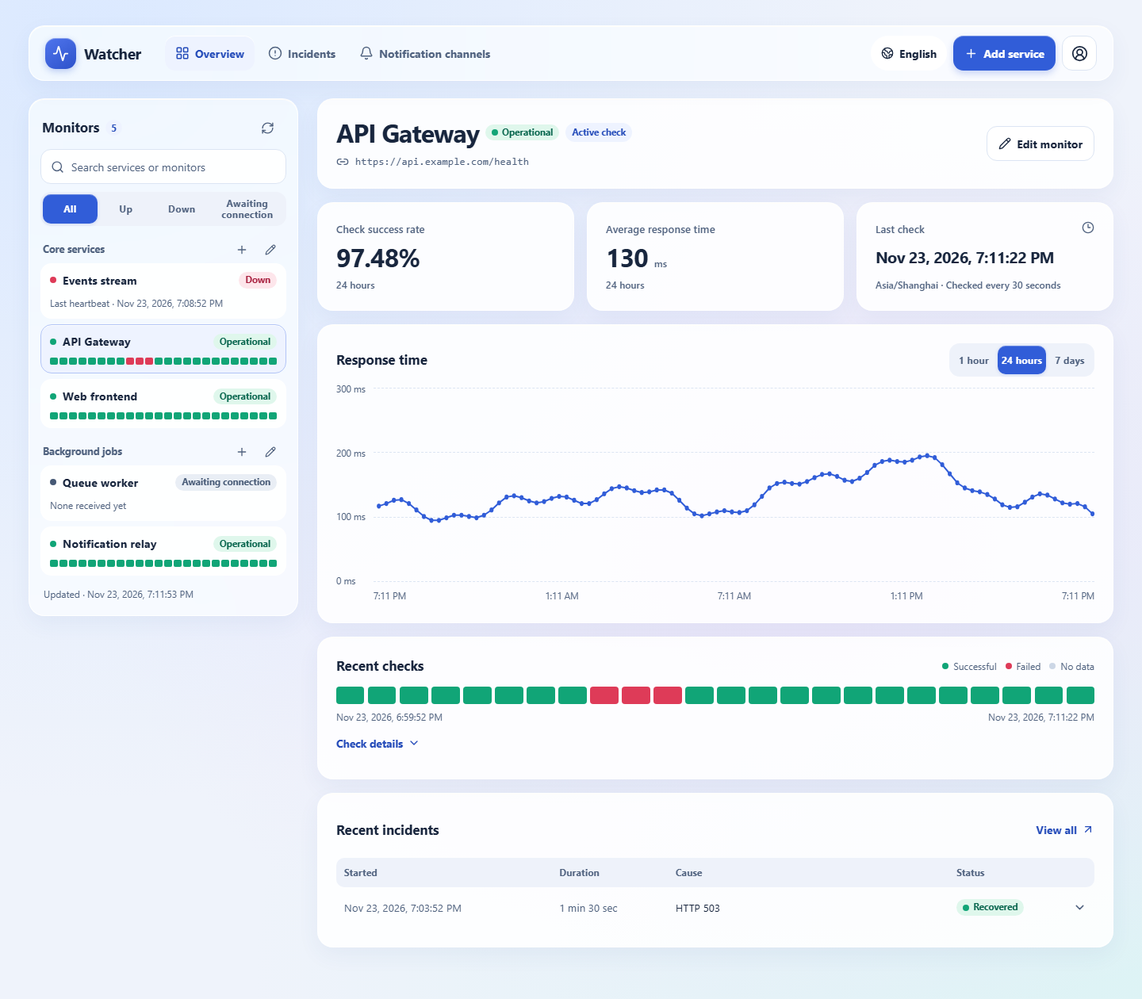
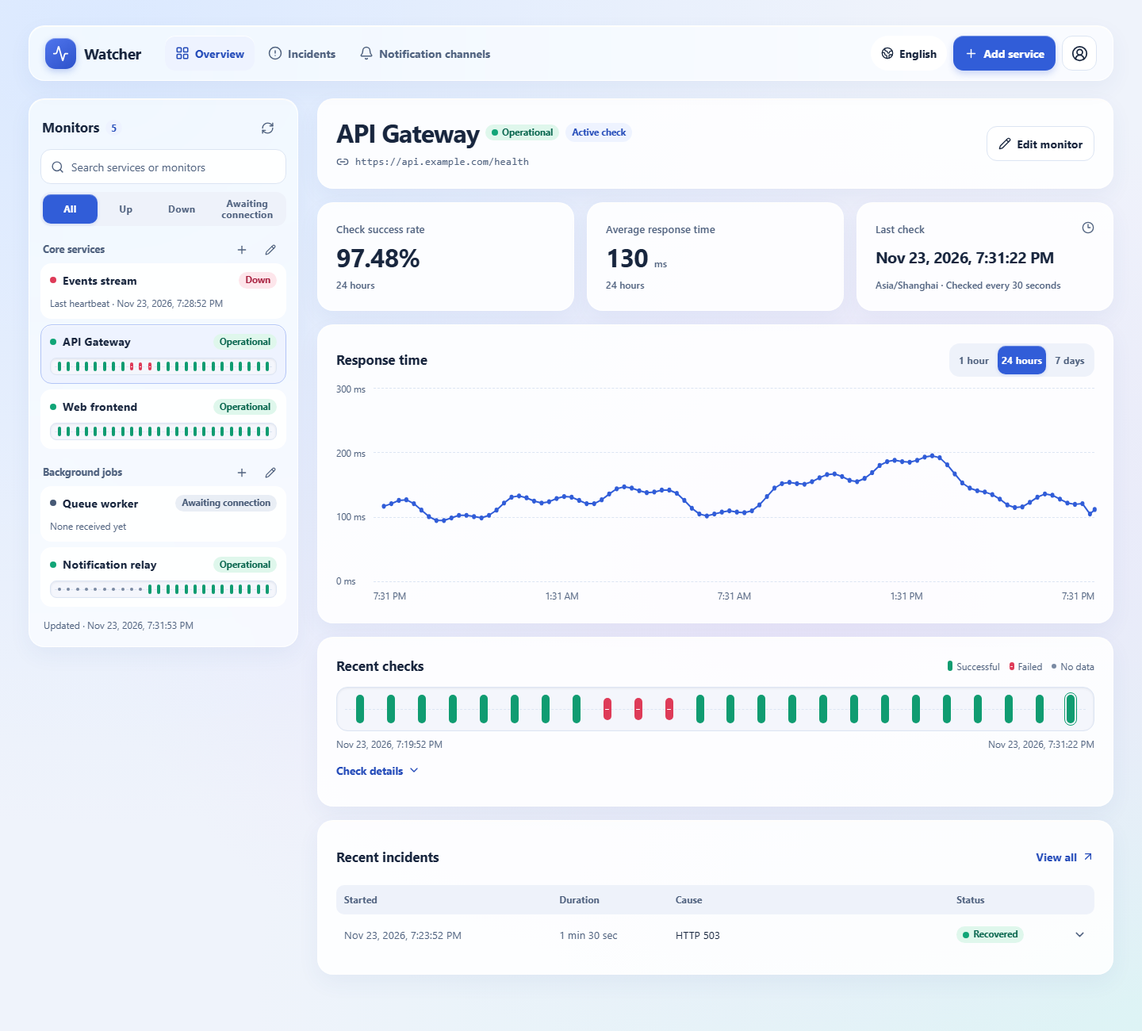
docs(readme): improve bilingual layout and refresh screenshots

diff --git a/README.md b/README.md
@@ -2,73 +2,121 @@
 
 English · [简体中文](README.zh-CN.md)
 
-Watcher monitors HTTP endpoints and application heartbeats, then sends alerts when a service fails and recovers. The dashboard uses Next.js, Tailwind CSS, and PostgreSQL and is available in English and Simplified Chinese. Anyone who signs in with GitHub can view monitoring data. Set `ADMIN_GITHUB_IDS` to grant configuration access to specific GitHub users.
+Watcher monitors HTTP endpoints and application heartbeats, records incidents, and alerts you when a service fails or recovers. The responsive dashboard runs on Next.js, Tailwind CSS, and PostgreSQL.
 
-## Dashboard preview
+[Dashboard](#dashboard) · [Quick start](#quick-start) · [Deploy to Vercel](#deploy-to-vercel) · [Passive monitoring](#passive-monitoring)
 
-The desktop view puts the monitor list beside the selected monitor. The API Gateway example shows 24 hours of response times, recent check results, and a recovered incident.
+## Dashboard
 
-![Watcher desktop dashboard showing the monitor list, API Gateway latency chart, and incident history](docs/screenshots/desktop-en.png)
+![Watcher desktop dashboard with a monitor list, response-time chart, recent check history, and a recovered incident](docs/screenshots/desktop-en.png)
 
-On mobile, the overview brings active failures and monitor states into a single list. Tap a monitor to open its details, or use the bottom navigation to switch between the overview, incidents, and notifications.
+The monitor list stays beside the selected monitor on desktop. The recent-check strip shows successful checks as green capsules, failures as rose capsules with a short dash, and missing records as gray dots. A new result receives a brief outline pulse. The outline stays static when the system requests reduced motion.
 
-<img src="docs/screenshots/mobile-en.png" alt="Watcher mobile dashboard showing the failure summary, status filters, and bottom navigation" width="300">
+<details>
+<summary>Mobile dashboard</summary>
 
-These screenshots show the running dashboard with sample monitoring data.
+The mobile overview puts active failures at the top. Tap a monitor for its details, or switch between the overview, incidents, and notifications from the bottom bar.
 
-## Features
+<img src="docs/screenshots/mobile-en.png" alt="Watcher mobile dashboard with an active incident summary, monitor filters, and bottom navigation" width="300">
 
-- **Active HTTP(S) checks** run every 30 seconds against public endpoints and support configurable expected HTTP status codes. Two consecutive failures open an incident. The next successful check closes it.
-- **Passive WebSocket monitoring** accepts application heartbeats and explicit health reports. Once the first valid report arrives, a 15-second gap in heartbeats triggers a failure.
-- **Monitoring dashboard** groups monitors by service and provides search, status filters, recent checks, and incidents. HTTP monitors show response times and check success rates for 1 hour, 24 hours, or 7 days. Check records are retained for 7 days.
-- **Alert delivery** sends incident and recovery notifications through Bark, webhooks, or email and records delivery results and retries for each channel.
+</details>
 
-## Run locally
+*Screenshots show the running app with sample monitoring data.*
 
-You need Node.js 22.18 or later and PostgreSQL 14 or later.
+## Monitoring
 
-1. Clone this repository, run `npm ci`, and copy [`.env.example`](.env.example) to `.env.local`.
-2. Create a GitHub OAuth app. Set its homepage to `http://localhost:3000` and its callback to `http://localhost:3000/api/auth/callback/github`. Set `AUTH_GITHUB_ID` to the client ID and `AUTH_GITHUB_SECRET` to the client secret. [GitHub OAuth app setup](https://docs.github.com/en/apps/oauth-apps/building-oauth-apps/creating-an-oauth-app)
-3. Generate independent values for `AUTH_SECRET` and `CHANNEL_SECRET_KEY`. Run `node -e "console.log(require('node:crypto').randomBytes(32).toString('base64'))"` once per value. Set `ADMIN_GITHUB_IDS` to the administrators’ numeric GitHub user IDs, separated by commas.
-4. Set `DATABASE_URL` and run `npm run db:migrate` to apply the database schema.
-5. Run `npm run dev` and `npm run worker` in separate terminals. For local passive monitoring, run `npm run dev:ws` in a third terminal. Open the [local dashboard](http://localhost:3000).
+| Mode | How it works |
+| --- | --- |
+| Active HTTP(S) | Checks a public endpoint every 30 seconds against configurable HTTP status codes. Two consecutive failures open an incident. The next successful check closes it. |
+| Passive WebSocket | Accepts application heartbeats and explicit health reports. A 15-second gap triggers a failure once the first valid report has arrived. |
 
-Run `npm test` to use the embedded test database without a separate PostgreSQL instance. Run `npm run typecheck` for type checking and `npm run build` to verify the production build.
+HTTP monitor details include response times and check success rates for 1 hour, 24 hours, or 7 days. Watcher retains check records for 7 days. Each monitor can send failure and recovery alerts through multiple [notification channels](#notification-channels).
+
+## Quick start
+
+**Requirements:** Node.js 22.18 or later, PostgreSQL 14 or later, and a GitHub OAuth app.
+
+### Install
+
+```sh
+git clone https://github.com/lyxlucky/watcher.git
+cd watcher
+npm ci
+cp .env.example .env.local
+```
+
+### Configure
+
+Create a GitHub OAuth app with homepage `http://localhost:3000` and callback `http://localhost:3000/api/auth/callback/github`. Copy its client ID and secret into the local environment. [GitHub OAuth app setup](https://docs.github.com/en/apps/oauth-apps/building-oauth-apps/creating-an-oauth-app)
+
+| Variable | Local value |
+| --- | --- |
+| `AUTH_URL` | `http://localhost:3000` |
+| `AUTH_GITHUB_ID`, `AUTH_GITHUB_SECRET` | GitHub OAuth app client ID and client secret |
+| `AUTH_SECRET`, `CHANNEL_SECRET_KEY` | Two independently generated secrets |
+| `ADMIN_GITHUB_IDS` | Comma-separated numeric GitHub user IDs allowed to edit configuration |
+| `DATABASE_URL` | Connection URL for your PostgreSQL database |
+
+Generate a value for each secret with this command.
+
+```sh
+node -e "console.log(require('node:crypto').randomBytes(32).toString('base64'))"
+```
+
+Anyone who signs in with GitHub can view monitoring data. Only the accounts listed in `ADMIN_GITHUB_IDS` can change the configuration. See [the environment template](.env.example) for the optional SMTP settings.
+
+### Start
+
+Run `npm run db:migrate` once to apply the schema. Then start each process you need in a separate terminal.
+
+| Command | Purpose |
+| --- | --- |
+| `npm run dev` | Start the [dashboard](http://localhost:3000) |
+| `npm run worker` | Run checks, detect expired heartbeats, and deliver alerts |
+| `npm run dev:ws` | Accept passive monitor connections on port 3001 |
 
 ## Deploy to Vercel
 
-[`vercel.json`](vercel.json) deploys the Next.js app and the long-running monitoring worker to the same Vercel project. The default region is `iad1`. If your database is in another region, update both `regions` and the Daemon’s `instances` region. The Daemon runs in production deployments. [Vercel Daemons documentation](https://vercel.com/docs/daemons)
+[`vercel.json`](vercel.json) deploys the Next.js app and the worker to one Vercel project. Both default to `iad1`. If your database is elsewhere, update both `regions` and the Daemon’s `instances` region. The Daemon runs in production deployments. [Vercel Daemons documentation](https://vercel.com/docs/daemons)
 
-1. Create a Vercel project and choose a production domain. Set the production environment variables, point `AUTH_URL` to that HTTPS origin, and use `https://your-domain.example/api/auth/callback/github` as the GitHub OAuth callback. For passive monitoring, make sure Fluid compute is enabled. [Vercel WebSocket documentation](https://vercel.com/docs/functions/websockets)
-2. Run `npm run db:migrate` with the production database connection. Link the repository to the Vercel project and deploy via its Git integration or with `vercel --prod`. Verify that the worker started by checking for `Watcher 监控进程已启动` in the Vercel logs.
-3. Sign in as an administrator, create a notification channel and a service, and add an active or passive monitor. Use your own health endpoint and a test notification destination to check delivery on failure and recovery.
+1. Set the production environment variables. Point `AUTH_URL` to the HTTPS deployment origin and use `https://your-domain.example/api/auth/callback/github` as the OAuth callback. Enable Fluid compute for passive monitoring. [Vercel WebSocket documentation](https://vercel.com/docs/functions/websockets)
+2. Run `npm run db:migrate` with the production database connection, then deploy through Vercel’s Git integration or run `vercel --prod`. Check the logs for `Watcher 监控进程已启动`.
+3. Sign in as an administrator, create a service and a notification channel, and add a monitor. Verify failure and recovery alerts with a test destination.
 
-The Next.js app and the Daemon use the same database connection and `CHANNEL_SECRET_KEY`. Keep that key across deployments so existing channel destinations can still be decrypted. Configure `SMTP_*` for the Daemon to send email. Port `465` uses implicit TLS. The default port, `587`, uses STARTTLS.
+Use the same `DATABASE_URL` and `CHANNEL_SECRET_KEY` for the app and Daemon. Preserve the channel key across deployments so Watcher can still decrypt existing destinations.
 
-## Connect a passive monitor
+## Passive monitoring
 
-Connect to `wss://your-domain.example/api/heartbeat` in production or `ws://127.0.0.1:3001/api/heartbeat` locally. Save the token shown when you create the monitor. Send `Authorization: Bearer <token>` in the WebSocket handshake and send one JSON text frame every 5 seconds. Watcher returns `{"type":"ack"}` after persisting a report.
+Connect to `ws://127.0.0.1:3001/api/heartbeat` locally or `wss://your-domain.example/api/heartbeat` in production. Save the token shown when you create the monitor and send `Authorization: Bearer <token>` in the WebSocket handshake. Send one JSON text frame every 5 seconds. Watcher replies with `{"type":"ack"}` after recording it.
 
 | Frame | Effect |
 | --- | --- |
 | `{"type":"heartbeat"}` | Refreshes the last heartbeat time and can clear a heartbeat timeout. |
-| `{"type":"unhealthy"}` | Immediately reports an unhealthy state and opens an incident when the monitor enters that state. |
+| `{"type":"unhealthy"}` | Reports an unhealthy state and opens an incident when the monitor enters that state. |
 | `{"type":"healthy"}` | Reports a healthy state and clears an explicit failure. |
 
-Reconnect automatically after disconnects and report the current application state promptly. Watcher measures the 15-second timeout from receipt of the last valid report. The worker checks for expired heartbeats every 250 milliseconds. Database operations, deployments, and notification services can affect when an alert arrives. A monitor awaiting connection starts its timer with the first valid report.
+Reconnect after disconnects and report the application’s current state promptly. Watcher measures the timeout from receipt of the last valid report and checks for expired heartbeats every 250 milliseconds. Database operations, deployments, and notification services can affect alert timing.
 
 ## Notification channels
 
-- **Bark** expects the push URL containing the device key, for example `https://api.day.app/device-key`. [Bark documentation](https://bark.day.app/)
-- **Webhook** expects a public HTTP(S) URL. Watcher sends JSON with `id`, `incidentId`, `event`, `service`, `monitor`, `reason`, and `occurredAt`. The event is `down` or `recovery`. Receivers can deduplicate deliveries using the `Idempotency-Key` header.
-- **Email** expects a recipient email address. The worker sends through the SMTP server configured for the deployment.
+| Channel | Configuration |
+| --- | --- |
+| Bark | A push URL with the device key, such as `https://api.day.app/device-key`. [Bark documentation](https://bark.day.app/) |
+| Webhook | A public HTTP(S) endpoint. Use the `Idempotency-Key` header to deduplicate deliveries. |
+| Email | A recipient address and the worker’s `SMTP_*` settings. Port 465 uses implicit TLS. The default port, 587, uses STARTTLS. |
 
-A monitor can use multiple channels. Each channel gets up to three delivery attempts, with retries after approximately 15 and 30 seconds. A retry can produce a duplicate if the external delivery succeeded but Watcher could not record it.
+Webhook events are `down` or `recovery`. The JSON body includes `id`, `incidentId`, `event`, `service`, `monitor`, `reason`, and `occurredAt`.
 
-## Project structure
+Each channel gets up to three delivery attempts, with retries after approximately 15 and 30 seconds. A retry can produce a duplicate when the destination accepted the notification but Watcher could not record it.
 
-- [`app/`](app/) contains the dashboard, localization, authentication entry points, and API routes.
-- [`worker/`](worker/) contains the database schema, probe scheduling, heartbeat processing, and alert delivery.
-- [`tests/`](tests/) contains tests for monitoring, alert delivery, and check history.
+## Development
 
-[Monitoring rules in Simplified Chinese](docs/monitoring.md) · [Vercel scheduling decision in Simplified Chinese](docs/adr/0001-vercel-daemon-for-scheduling.md)
+| Command | Purpose |
+| --- | --- |
+| `npm test` | Run monitoring and delivery tests using an embedded database |
+| `npm run typecheck` | Run TypeScript checks |
+| `npm run build` | Verify the production build |
+
+The dashboard and API routes are in [`app/`](app/). The worker, database schema, and alert delivery code are in [`worker/`](worker/). Tests are in [`tests/`](tests/).
+
+[Monitoring rules (Chinese)](docs/monitoring.md) · [Vercel scheduling decision (Chinese)](docs/adr/0001-vercel-daemon-for-scheduling.md)

diff --git a/README.zh-CN.md b/README.zh-CN.md
@@ -1,74 +1,122 @@
 # Watcher
 
-简体中文 · [English](README.md)
+[English](README.md) · 简体中文
 
-Watcher 监控 HTTP 接口和应用心跳，在服务故障及恢复时发送通知。控制台基于 Next.js、Tailwind CSS 和 PostgreSQL，支持简体中文和英文。任意 GitHub 用户登录后可查看监控数据。通过 `ADMIN_GITHUB_IDS` 指定可修改配置的 GitHub 用户。
+Watcher 监控 HTTP 接口和应用心跳，记录故障，并在服务故障或恢复时发送通知。响应式控制台基于 Next.js、Tailwind CSS 和 PostgreSQL。
+
+[界面预览](#界面预览) · [快速开始](#快速开始) · [部署到 Vercel](#部署到-vercel) · [被动接入](#被动接入)
 
 ## 界面预览
 
-桌面端并排显示监控目录和所选监控项的详情。截图中的 API 网关展示了近 24 小时响应时间、近期探测结果和一条已恢复的故障。
+![Watcher 中文桌面控制台，展示监控列表、响应时间图、近期探测与已恢复的故障](docs/screenshots/desktop-zh.png)
 
-![Watcher 中文桌面控制台，左侧为监控列表，右侧为 API 网关的延迟图表和故障记录](docs/screenshots/desktop-zh.png)
+桌面端将监控列表和选中项的详情并排显示。近期探测条用绿色胶囊表示成功，带短横的玫红胶囊表示失败，灰点表示暂无记录。新结果会带来一次短暂的光晕，系统开启「减少动态效果」后显示静态描边。
 
-手机端的监控总览集中展示当前异常和各监控项状态。点按监控项可进入详情，底部导航可切换总览、故障记录和通知渠道。
+<details>
+<summary>手机端控制台</summary>
 
-<img src="docs/screenshots/mobile-zh.png" alt="Watcher 中文手机控制台，展示异常摘要、状态筛选和底部导航" width="300">
+手机端总览会将当前异常放在顶部。点按监控项可查看详情，底部导航可切换总览、故障记录和通知渠道。
 
-截图来自运行中的控制台，使用示例监控数据。
+<img src="docs/screenshots/mobile-zh.png" alt="Watcher 中文手机控制台，展示异常摘要、监控筛选和底部导航" width="300">
 
-## 功能
+</details>
 
-- **主动 HTTP(S) 探测**每 30 秒检查一次公网地址，支持自定义预期 HTTP 状态码。连续两次失败时创建故障，下一次成功时关闭故障。
-- **被动 WebSocket 监控**接受应用心跳与显式健康状态上报。首次有效上报后开始计时，15 秒未收到心跳时判定异常。
-- **监控总览**按服务分组搜索、筛选监控项，查看最近探测和故障。主动探测支持 1 小时、24 小时和 7 天的响应时间图与探测成功率。探测明细保留 7 天。
-- **告警投递**在故障和恢复时通过 Bark、Webhook 或邮件通知，记录各渠道的投递与重试结果。
+*截图来自运行中的控制台，使用示例监控数据。*
 
-## 本地运行
+## 监控方式
 
-需要 Node.js 22.18 或更新版本，以及 PostgreSQL 14 或更新版本。
+| 方式 | 监控规则 |
+| --- | --- |
+| 主动 HTTP(S) 探测 | 每 30 秒访问一次公网地址，根据配置的 HTTP 状态码判断结果。连续两次失败会创建故障，下一次成功时关闭故障。 |
+| 被动 WebSocket 监控 | 接收应用心跳和显式健康上报。收到首次有效上报后，15 秒未收到心跳即判定异常。 |
 
-1. 克隆仓库，执行 `npm ci`，把 [`.env.example`](.env.example) 复制为 `.env.local`。
-2. 创建 GitHub OAuth App。主页地址填写 `http://localhost:3000`，本地回调填写 `http://localhost:3000/api/auth/callback/github`。将 Client ID 和 Client Secret 分别写入 `AUTH_GITHUB_ID` 和 `AUTH_GITHUB_SECRET`。[GitHub OAuth App 创建文档](https://docs.github.com/en/apps/oauth-apps/building-oauth-apps/creating-an-oauth-app)
-3. 为 `AUTH_SECRET` 和 `CHANNEL_SECRET_KEY` 各生成一个独立密钥。可分别运行 `node -e "console.log(require('node:crypto').randomBytes(32).toString('base64'))"`。将管理员的数字 GitHub 用户 ID 填入 `ADMIN_GITHUB_IDS`，多个 ID 用逗号分隔。
-4. 设置 `DATABASE_URL` 并执行 `npm run db:migrate`。
-5. 在不同终端运行 `npm run dev` 和 `npm run worker`。如需本地被动接入，在第三个终端运行 `npm run dev:ws`。打开 [本地控制台](http://localhost:3000)。
+主动探测详情支持查看 1 小时、24 小时和 7 天的响应时间和探测成功率。探测明细保留 7 天。每个监控项可通过多个[告警渠道](#告警渠道)发送故障和恢复通知。
 
-执行 `npm test` 可运行使用内嵌测试数据库的测试，无需外部 PostgreSQL。使用 `npm run typecheck` 检查类型，使用 `npm run build` 验证生产构建。
+## 快速开始
+
+**运行要求**为 Node.js 22.18 或更新版本、PostgreSQL 14 或更新版本，以及一个 GitHub OAuth App。
+
+### 安装
+
+```sh
+git clone https://github.com/lyxlucky/watcher.git
+cd watcher
+npm ci
+cp .env.example .env.local
+```
+
+### 配置
+
+创建 GitHub OAuth App，主页设为 `http://localhost:3000`，回调设为 `http://localhost:3000/api/auth/callback/github`。将 Client ID 和 Client Secret 填入本地环境配置。[GitHub OAuth App 创建文档](https://docs.github.com/en/apps/oauth-apps/building-oauth-apps/creating-an-oauth-app)
+
+| 变量 | 本地配置 |
+| --- | --- |
+| `AUTH_URL` | `http://localhost:3000` |
+| `AUTH_GITHUB_ID`、`AUTH_GITHUB_SECRET` | GitHub OAuth App 的 Client ID 和 Client Secret |
+| `AUTH_SECRET`、`CHANNEL_SECRET_KEY` | 分别生成的两个独立密钥 |
+| `ADMIN_GITHUB_IDS` | 可编辑配置的 GitHub 用户数字 ID，多个 ID 用逗号分隔 |
+| `DATABASE_URL` | PostgreSQL 数据库连接地址 |
+
+分别运行以下命令，为两个密钥各生成一个值。
+
+```sh
+node -e "console.log(require('node:crypto').randomBytes(32).toString('base64'))"
+```
+
+任意 GitHub 用户登录后可查看监控数据。`ADMIN_GITHUB_IDS` 中的用户可以修改配置。可选的 SMTP 配置见[环境变量模板](.env.example)。
+
+### 启动
+
+先执行 `npm run db:migrate` 应用数据库结构，再在不同终端启动所需进程。
+
+| 命令 | 用途 |
+| --- | --- |
+| `npm run dev` | 启动[本地控制台](http://localhost:3000) |
+| `npm run worker` | 执行主动探测、判定心跳超时和投递告警 |
+| `npm run dev:ws` | 在 3001 端口接受被动监控连接 |
 
 ## 部署到 Vercel
 
-使用 `vercel.json` 将 Next.js 和常驻监控进程部署到同一 Vercel 项目。默认区域是 `iad1`。若数据库位于其他地区，同步调整 `regions` 和 Daemon 的 `instances` 区域。Daemon 运行在生产环境。[Vercel Daemons 文档](https://vercel.com/docs/daemons)
+[`vercel.json`](vercel.json) 将 Next.js 应用和常驻监控进程部署到同一个 Vercel 项目，默认区域为 `iad1`。如果数据库在其他地区，请同时调整 `regions` 和 Daemon 的 `instances` 区域。Daemon 在生产部署中运行。[Vercel Daemons 文档](https://vercel.com/docs/daemons)
 
-1. 在 Vercel 创建项目并预留生产域名。设置生产环境变量，令 `AUTH_URL` 指向该 HTTPS 域名，并将 GitHub OAuth 回调设置为 `https://你的域名/api/auth/callback/github`。如需被动接入，确认项目已启用 Fluid compute。[Vercel WebSocket 文档](https://vercel.com/docs/functions/websockets)
-2. 使用生产数据库连接执行 `npm run db:migrate`。将仓库关联到 Vercel 项目，再执行 `vercel --prod` 或通过项目的 Git 集成触发生产部署。部署后在 Vercel 日志确认 `Watcher 监控进程已启动`。
-3. 管理员首次登录后，先创建通知渠道和服务，再为服务添加主动探测或被动监控项。可用自己的健康检查地址验证探测，用测试接收地址验证故障和恢复通知。
+1. 设置生产环境变量。将 `AUTH_URL` 指向生产 HTTPS 地址，OAuth 回调设为 `https://你的域名/api/auth/callback/github`。使用被动接入时启用 Fluid compute。[Vercel WebSocket 文档](https://vercel.com/docs/functions/websockets)
+2. 使用生产数据库连接执行 `npm run db:migrate`，通过 Vercel 的 Git 集成或 `vercel --prod` 部署。在日志中确认 `Watcher 监控进程已启动`。
+3. 以管理员身份登录，添加服务、通知渠道和监控项。通过测试接收地址验证故障和恢复通知。
 
-数据库连接和 `CHANNEL_SECRET_KEY` 供 Next.js 和 Daemon 共同使用。换部署时保留同一个 `CHANNEL_SECRET_KEY`，已有渠道密钥依赖它解密。发邮件所需的 `SMTP_*` 环境变量供 Daemon 使用。端口 `465` 直接使用 TLS，默认 `587` 使用 STARTTLS。
+Next.js 和 Daemon 使用同一 `DATABASE_URL` 和 `CHANNEL_SECRET_KEY`。更新部署时保留渠道密钥，已有投递地址依赖它解密。
 
-## 接入被动监控
+## 被动接入
 
-生产地址为 `wss://你的域名/api/heartbeat`，本地地址为 `ws://127.0.0.1:3001/api/heartbeat`。创建被动监控项时保存一次性显示的令牌。客户端在握手头中发送 `Authorization: Bearer <令牌>`，每 5 秒发送一个 JSON 文本帧。平台持久化后返回 `{"type":"ack"}`。
+本地连接 `ws://127.0.0.1:3001/api/heartbeat`，生产连接 `wss://你的域名/api/heartbeat`。创建监控项时保存显示的令牌，在 WebSocket 握手中发送 `Authorization: Bearer <令牌>`，之后每 5 秒发送一个 JSON 文本帧。服务端持久化上报后返回 `{"type":"ack"}`。
 
 | 帧 | 效果 |
 | --- | --- |
-| `{"type":"heartbeat"}` | 刷新存活时间，可解除心跳超时告警 |
-| `{"type":"unhealthy"}` | 立即判定为显式异常 |
-| `{"type":"healthy"}` | 上报健康并解除显式异常 |
+| `{"type":"heartbeat"}` | 刷新存活时间，可解除心跳超时告警。 |
+| `{"type":"unhealthy"}` | 显式上报异常，监控项进入异常时创建故障。 |
+| `{"type":"healthy"}` | 上报健康并解除显式异常。 |
 
-客户端要在连接断开时自动重连，并尽快重新上报当前应用状态。服务端以收到上报的时间为准，达到 15 秒阈值后由常驻进程检查并创建告警。该进程每 250 毫秒扫描一次，生产环境实际判定和投递时间还受数据库、部署切换和通知服务延迟影响。处于「等待接入」的监控项从首次有效上报开始计时。
+连接断开后自动重连，并尽快重新上报当前应用状态。Watcher 从收到最后一次有效上报开始计时，常驻进程每 250 毫秒检查一次心跳超时。数据库操作、部署切换和通知服务会影响告警到达时间。
 
 ## 告警渠道
 
-- **Bark** 填写应用中提供的含设备密钥的推送地址，例如 `https://api.day.app/设备密钥`。[Bark 文档](https://bark.day.app/)
-- **Webhook** 填写公网 HTTP(S) 接收地址。平台发送 JSON，包含 `id`、`incidentId`、`event`、`service`、`monitor`、`reason` 和 `occurredAt`。`event` 为 `down` 或 `recovery`。接收方可使用 `Idempotency-Key` 请求头去重。
-- **邮件** 填写收件邮箱。平台通过部署时配置的 SMTP 服务发送。
+| 渠道 | 配置 |
+| --- | --- |
+| Bark | 填写含设备密钥的推送地址，如 `https://api.day.app/设备密钥`。[Bark 文档](https://bark.day.app/) |
+| Webhook | 填写公网 HTTP(S) 接收地址。接收端可用 `Idempotency-Key` 请求头去重。 |
+| 邮件 | 填写收件邮箱，为常驻进程设置 `SMTP_*`。465 端口使用 TLS，默认 587 端口使用 STARTTLS。 |
 
-每个监控项可绑定多个渠道。单个渠道最多尝试三次。失败后分别在约 15 秒和 30 秒后重试。如果外部发送已成功但投递结果未能写入数据库，重试可能重复投递。
+Webhook 事件为 `down` 或 `recovery`。JSON 请求体包含 `id`、`incidentId`、`event`、`service`、`monitor`、`reason` 和 `occurredAt`。
 
-## 项目结构
+单个渠道最多尝试三次，失败后分别于约 15 秒和 30 秒重试。外部发送成功但投递结果未能写入数据库时，重试可能产生重复通知。
 
-- [`app/`](app/) 包含控制台、语言切换、认证入口和 API 路由。
-- [`worker/`](worker/) 包含数据库结构、探测调度、心跳处理和告警投递。
-- [`tests/`](tests/) 包含监控、告警及探测历史测试。
+## 开发
+
+| 命令 | 用途 |
+| --- | --- |
+| `npm test` | 使用内嵌数据库运行监控和告警测试 |
+| `npm run typecheck` | 检查 TypeScript 类型 |
+| `npm run build` | 验证生产构建 |
+
+控制台和 API 路由在 [`app/`](app/)，常驻进程、数据库结构和告警投递在 [`worker/`](worker/)，测试在 [`tests/`](tests/)。
 
 [首版监控规则](docs/monitoring.md) · [Vercel 调度决策](docs/adr/0001-vercel-daemon-for-scheduling.md)
